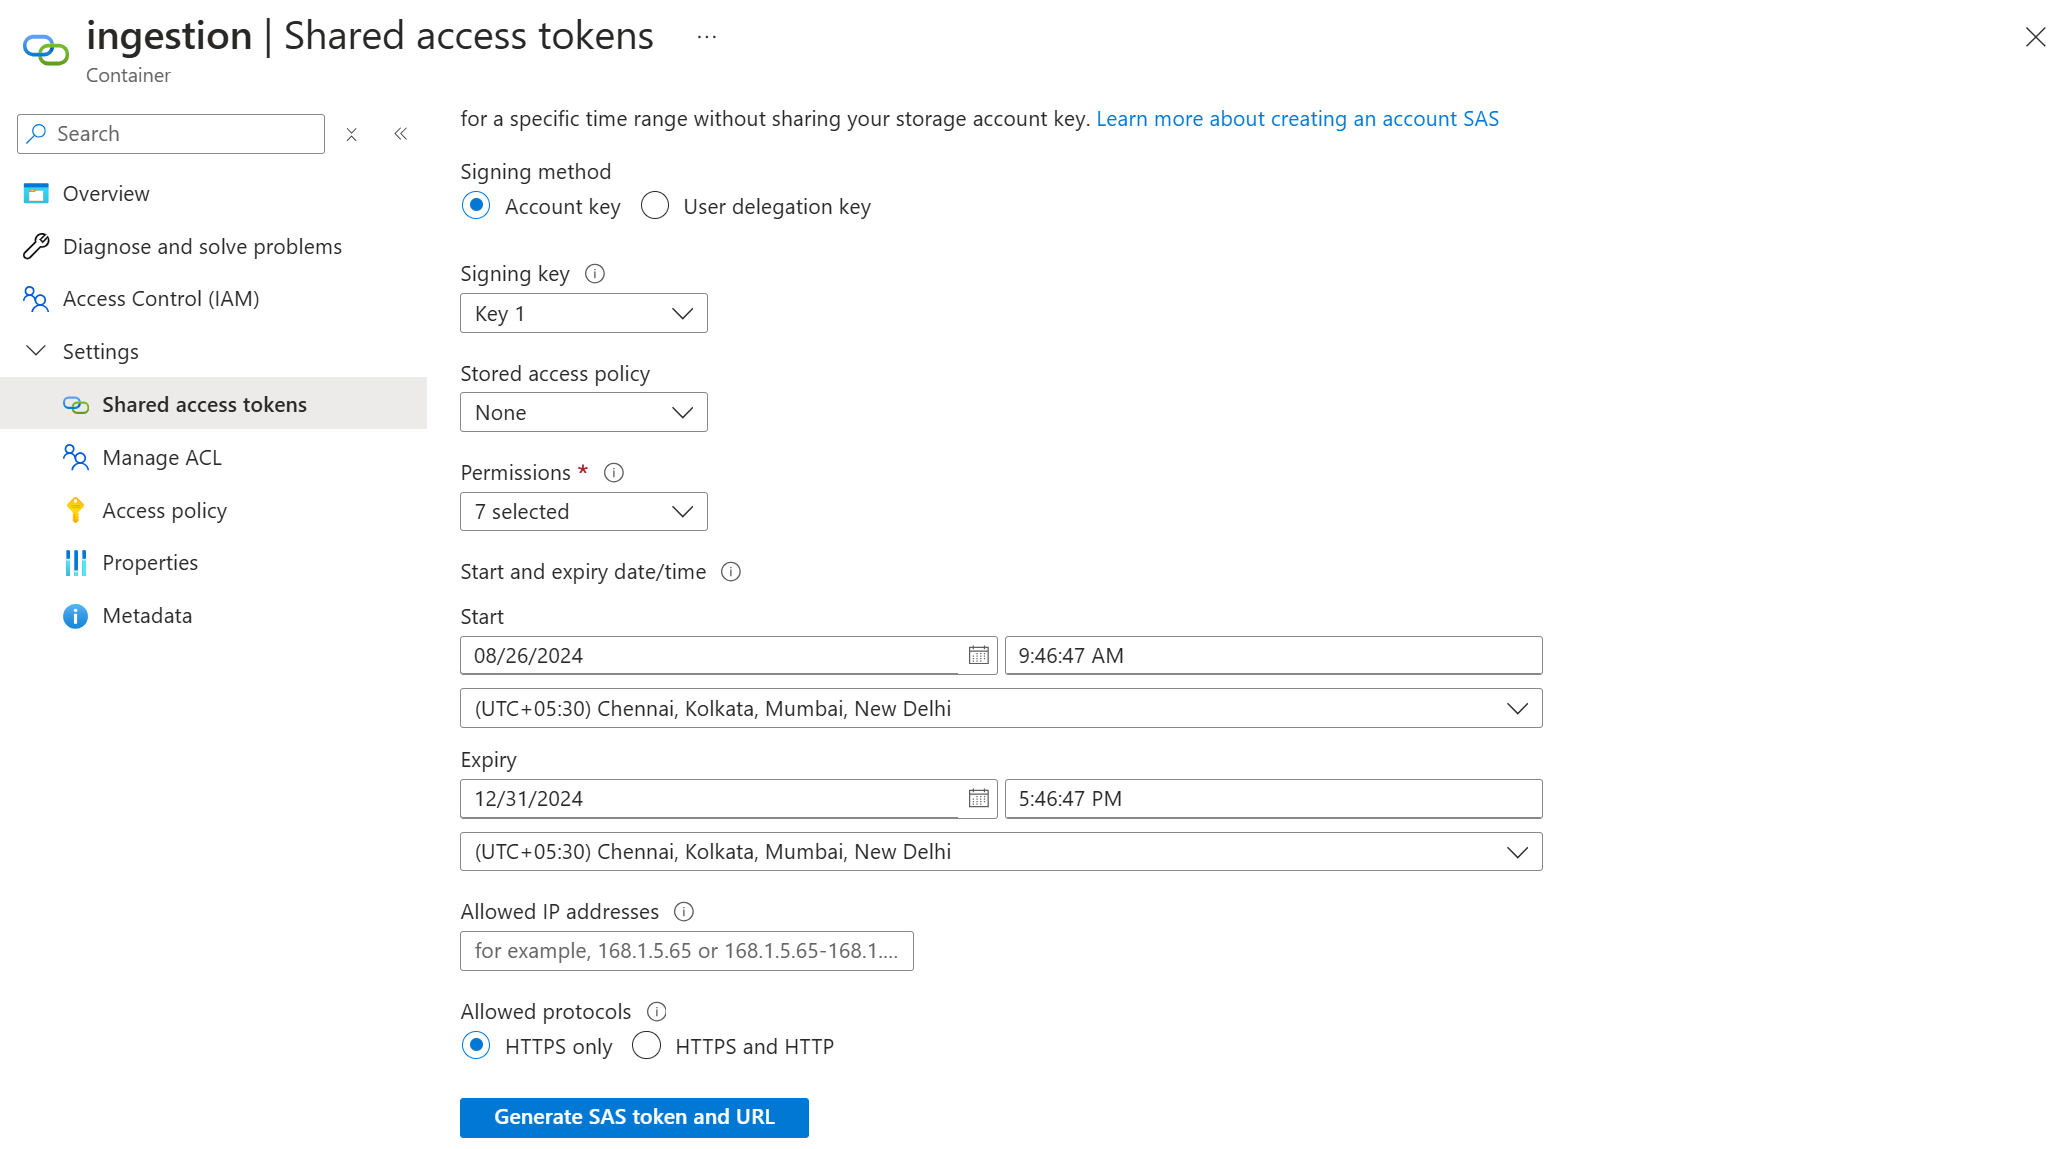
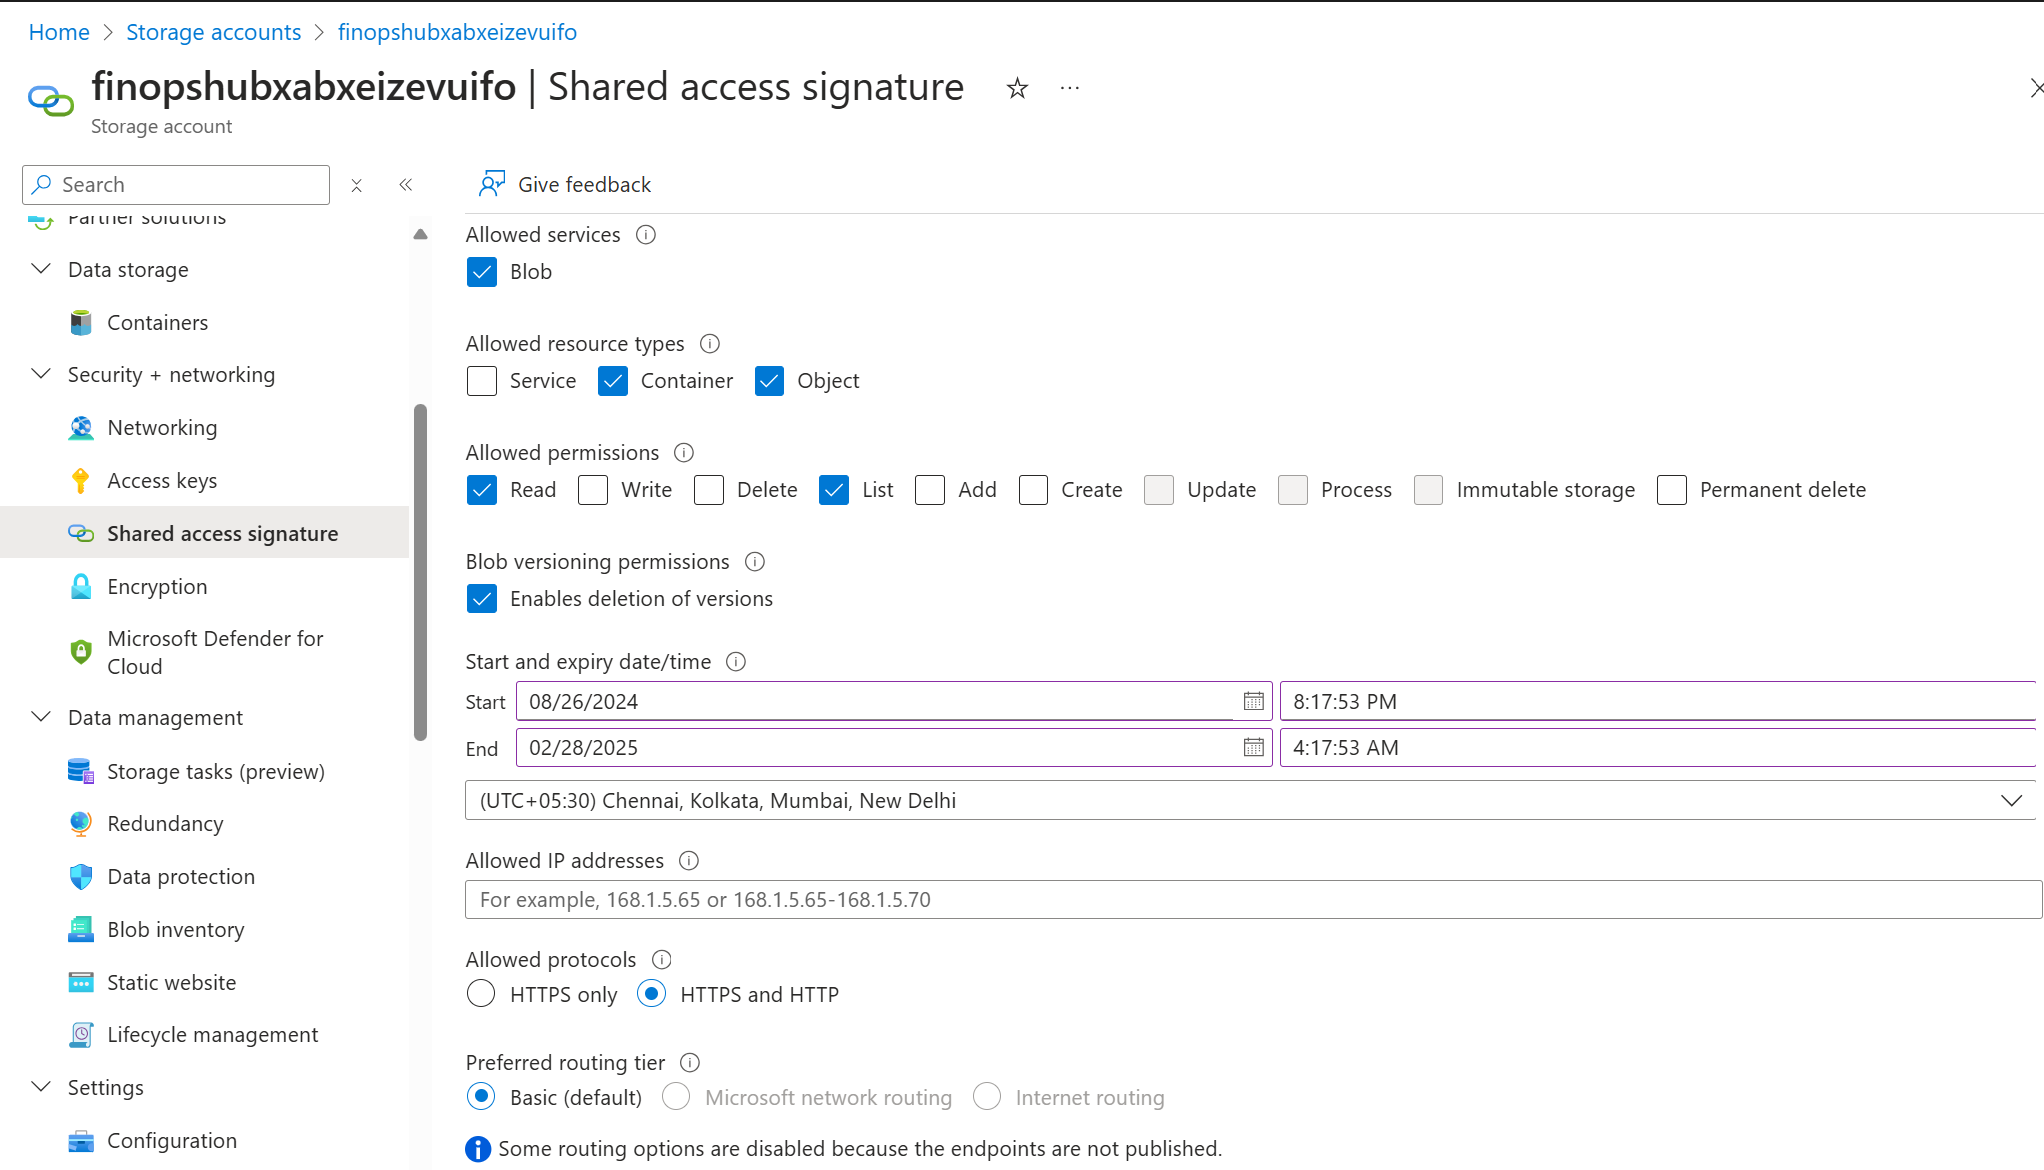
updated SAS Token configuration to storage account level SAS token

diff --git a/docs/_reporting/power-bi/setup.md b/docs/_reporting/power-bi/setup.md
@@ -70,9 +70,8 @@ The FinOps toolkit Power BI reports include pre-configured visuals, but are not 
    ![Screenshot of instructions to connect to a FinOps hub](https://github.com/microsoft/finops-toolkit/assets/399533/5582b428-e811-4d7e-83d0-4a8fbb905d30)
 
 2. **Use the SAS Token to setup permission for the power BI dashboards:** Generate the Shared Access Signature (SAS) token for storage account ingestion container to provide required permissions for the power BI dashboards. Follow the steps below:
-   - Navigate the FinOps deployment storage account, within the storage account blade select **Data Storage > Containers** and open the ingestion container.
-   - Within the ingestion container blade on the left select **settings> Shared access tokens**. Choose the account key radio button.
-   - On the permissions dropdown select the **Read, Add, Create, Write, Delete, List, Move, Execute, Ownership, Permissions**, provide the start and expiry date and time range, keep the rest as default. Select `Generate SAS token and URL` button. Copy the generated token.
+   - Navigate the FinOps deployment storage account, within the storage account blade under security + networking tab on the left, select **Shared access signature**. 
+   - On the Shared Accesss Signature blade. On the Allowed resource types select `Container` and `Object`, in the allowed permissions field select the **Read, List**, provide the start and expiry date and time range, keep the rest as default. Select `Generate SAS token and URL` button. Copy the generated token.
   ![Image representing the SAS token configuration](../../assets/images/aoe/azure-storage-account-SAS.png)
    - On the opened power BI dashboard, within **Transform data** window, select the `Data Source Settings`, within the windows select the `Edit permissions` button, in the edit permissions windows, click on 'Edit' button below credentials. 
   ![data source settings within Transform Data](../../assets/images/aoe/powerbi-dashboard-SAS-setup.png)  
